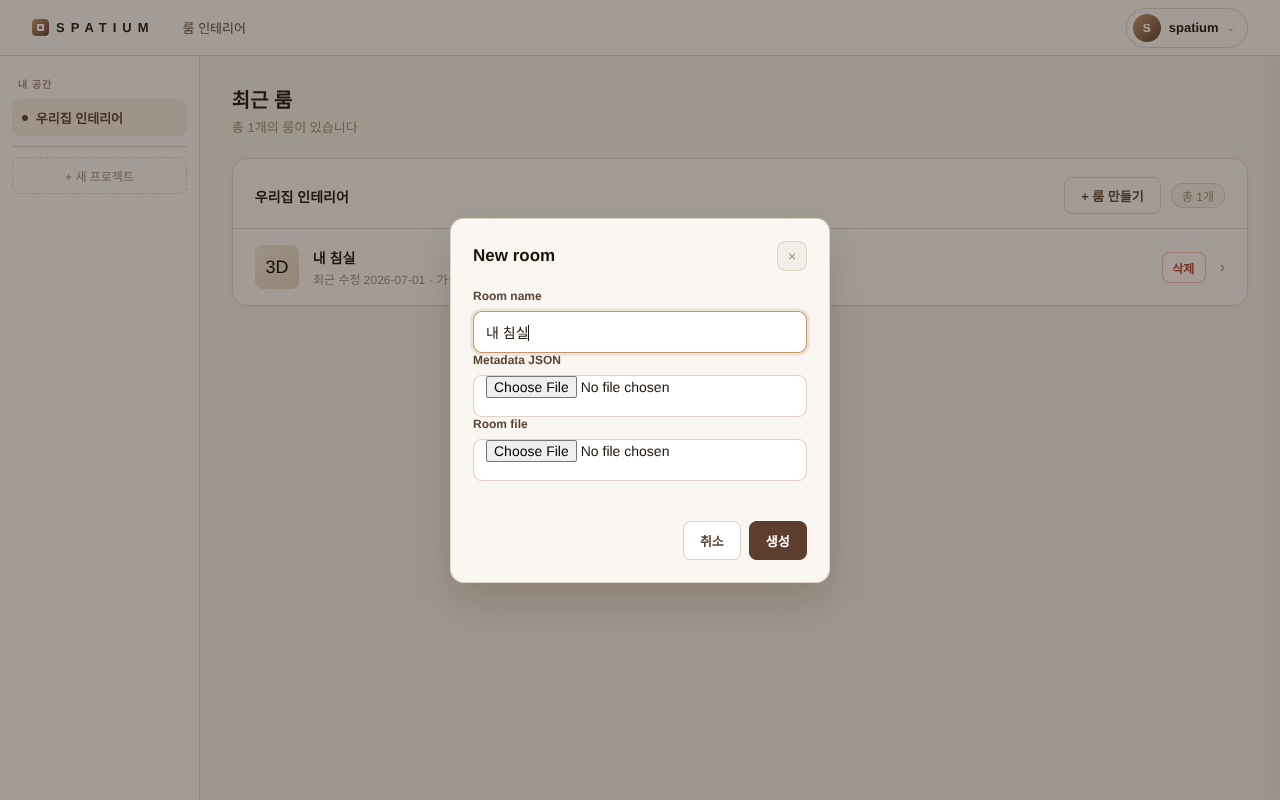
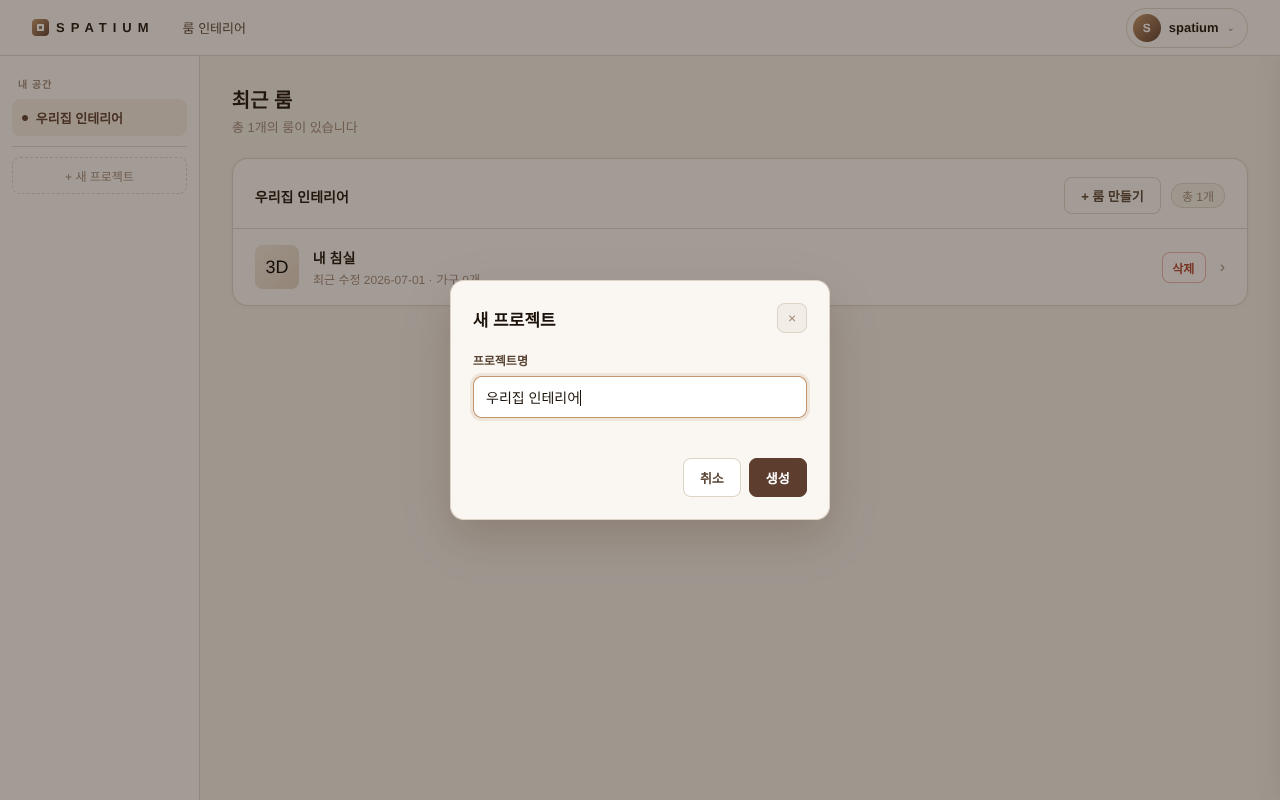
이용순서 변경

Changed region(s): [[0.3438, 0.25, 0.6562, 0.5938], [0.3438, 0.5625, 0.6562, 0.75]]

diff --git a/spatium-frontend/src/pages/HomePage.js b/spatium-frontend/src/pages/HomePage.js
@@ -14,18 +14,18 @@ import useProjectStats from "../hooks/useProjectStats";
 const STEPS = [
   {
     img: "/images/steps/step1.gif",
+    title: "앱으로 방 스캔해서 내보내기",
+    desc: "앱으로 내 방을 LiDAR 스캔하고 3D 파일로 내보내요",
+  },
+  {
+    img: "/images/steps/step2.gif",
     title: "새 프로젝트 생성",
     desc: "프로젝트를 만들어 공간 작업을 시작해요",
   },
   {
-    img: "/images/steps/step2.gif",
-    title: "새 룸 만들기",
-    desc: "프로젝트 안에 방(룸)을 추가해요",
-  },
-  {
     img: "/images/steps/step3.gif",
-    title: "스캔한 3D 업로드",
-    desc: "LiDAR로 스캔한 내 방 3D 파일을 업로드해요",
+    title: "새 룸 만들기",
+    desc: "스캔한 3D 파일을 업로드해 룸을 추가해요",
   },
   {
     img: "/images/steps/step4.gif",